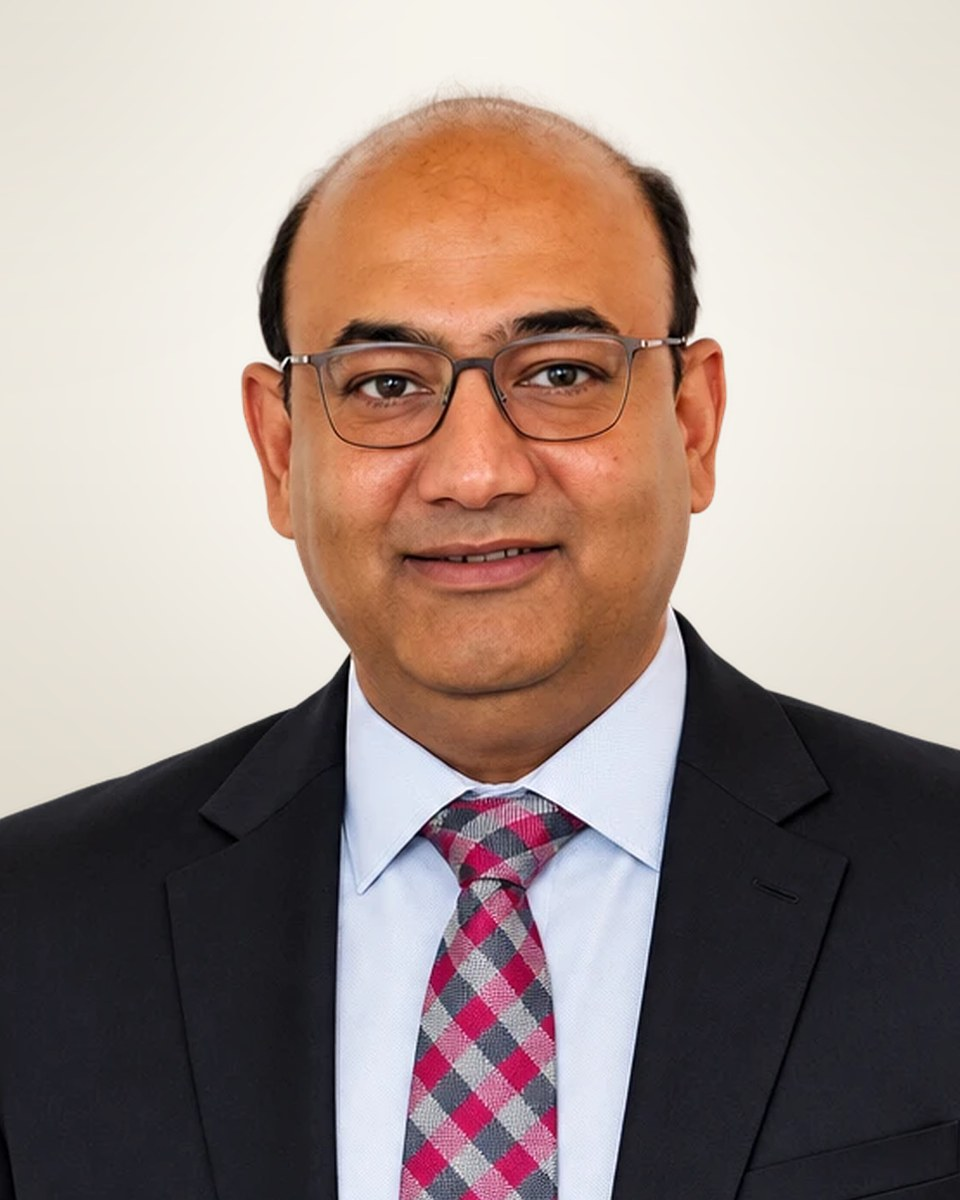
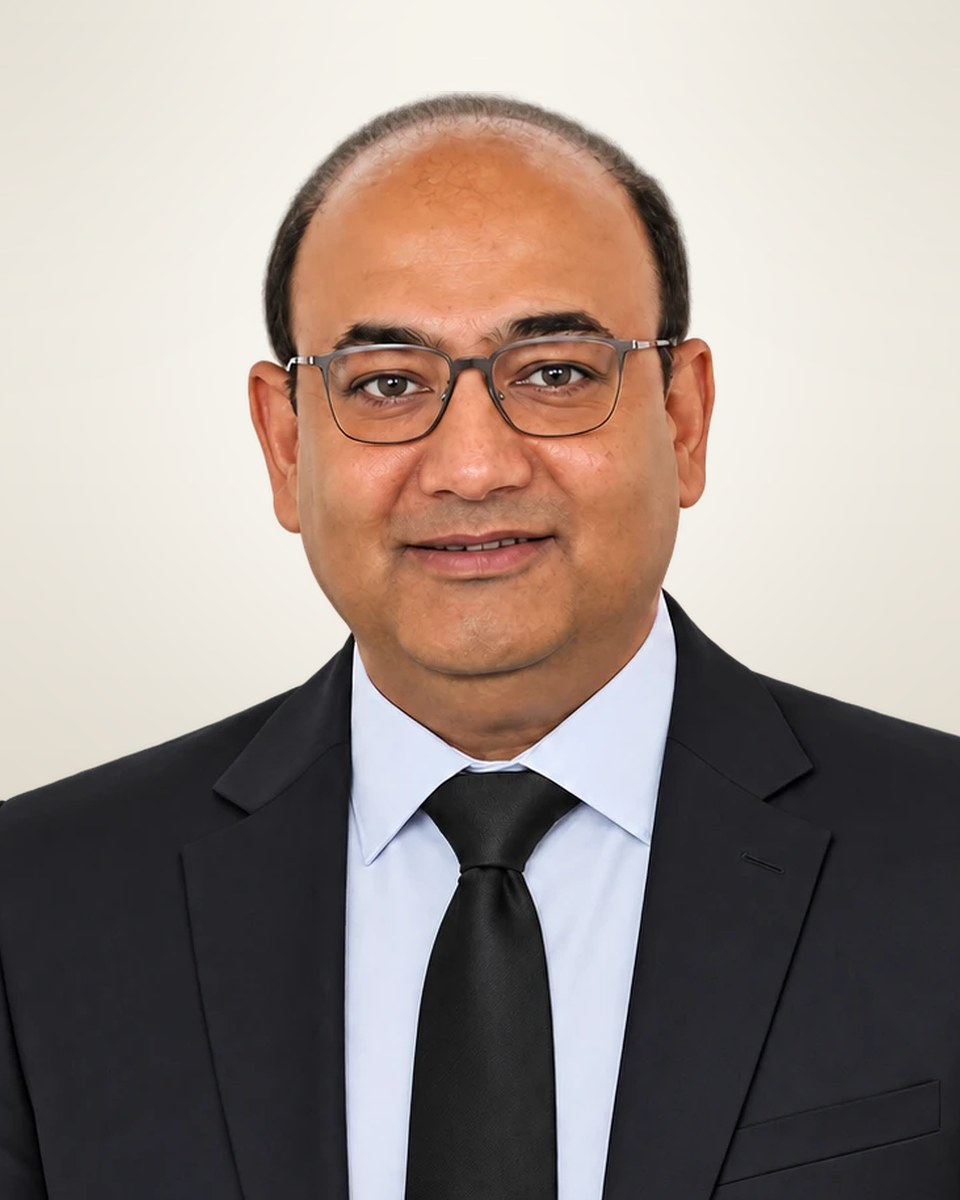
New portrait for Ch. Abdul Nabi Qamar (team card and hero)
Claude-Session: https://claude.ai/code/session_01M9TFTMe9SzZUtDGe2tVLiv

diff --git a/royal-vision-law/team-photos/compose.py b/royal-vision-law/team-photos/compose.py
@@ -1,9 +1,9 @@
-import sys
+import sys, os
 from PIL import Image, ImageDraw, ImageFilter, ImageEnhance
 W,H=960,1200
 src=sys.argv[1] + '/%d.webp'  # transparent studio cut-outs supplied by the firm
 # n: (slug, head_top, chin_y, face_cx)
-P={15:('ch-abdul-nabi-qamar',56,345,555),10:('arshad-mehmood-warraich',50,530,548),11:('younis-amin',60,520,540),12:('shahid-amin',44,490,565),
+P={24:('ch-abdul-nabi-qamar',4,385,500),10:('arshad-mehmood-warraich',50,530,548),11:('younis-amin',60,520,540),12:('shahid-amin',44,490,565),
    13:('rana-tahir-mehmood',16,600,490),14:('imran-ali',47,470,560),16:('ch-umar-shahzad-ashraf',85,580,575)}
 HEAD=500; TOP=96  # target head height (hair top->chin) and hair-top y on canvas
 def backdrop():
@@ -20,6 +20,7 @@ def backdrop():
     return Image.composite(bg,Image.new('RGB',(W,H),(196,188,172)),vig)
 bg0=backdrop()
 for n,(slug,ht,chin,cx) in P.items():
+    if not os.path.exists(src%n): print('skip',n,slug,'(source not here)'); continue
     im=Image.open(src%n).convert('RGBA')
     a=im.getchannel('A').point(lambda v: min(255,round(v*255/250)))
     im.putalpha(a)
